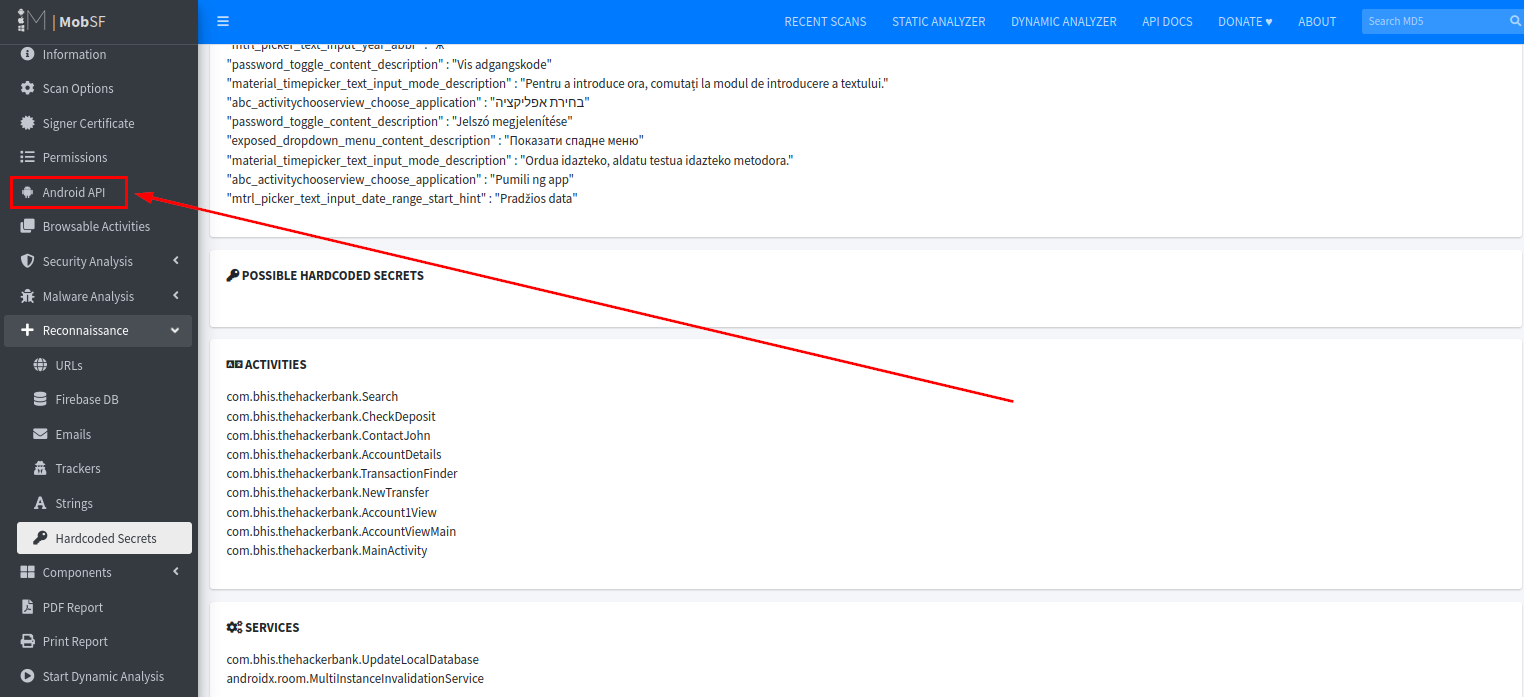
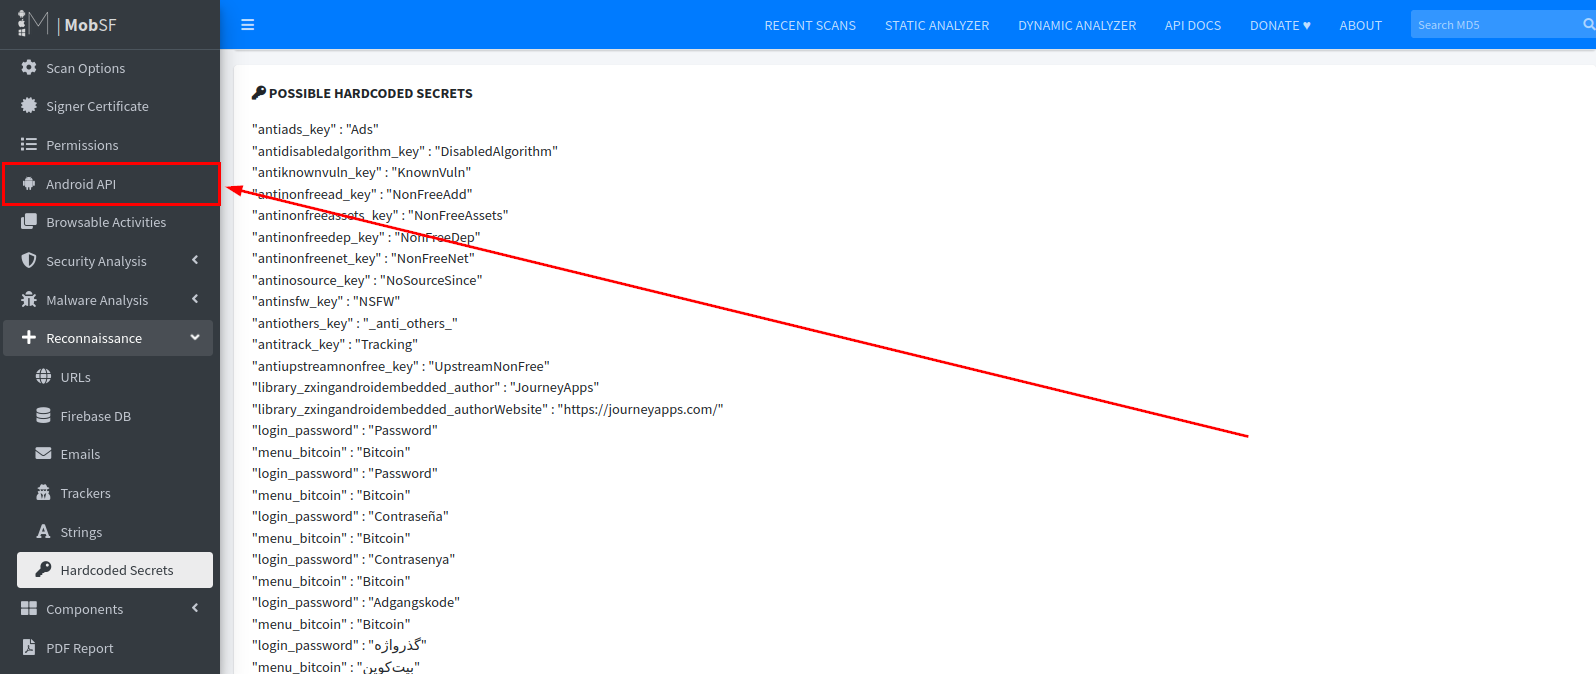
lab 3 final updates

diff --git a/Labs/LAB_03_Static_Analysis/instructions.md b/Labs/LAB_03_Static_Analysis/instructions.md
@@ -25,9 +25,9 @@ Please select an apk file in your home directory.
 
 ![](images/openapk.png)
 
-It may take a while for the file to finish Analyzing.
+It may take a while for the file to finish analyzing.
 
-Once the scan finishes, you should see the Static Report of the scan:
+Once the scan finishes, you should see the `Static Report` of the scan:
 
 ![](images/scanfinished.png)
 
@@ -80,8 +80,7 @@ MobSF extracts potentially sensitive values from this file and displays them in 
 
 You should verify that the information displayed in this section is actually sensitive before reporting it.
 
-<!--![](images/secrets.png)-->
-<img width="485" alt="Screenshot 2023-12-30 at 12 05 39 PM" src="https://github.com/deruke/AndroidLabs/assets/22796374/057e6fa8-ae56-4e12-9b2d-662ecb0a7f12">
+![](images/hardcodedsecrets.png)
 
 ## API
 
@@ -101,17 +100,17 @@ Use the navigation menu to click on `Browsable Activities`
 
 MobSF extracts a list of activities that can be triggered by a web browser to display data referenced by a link. These are worth paying attention to, since they can sometimes be leveraged by an attacker to perform web based or internet based attacks.
 
-<!--![](images/browsableactivities.png)-->
-
-<img width="1429" alt="Screenshot 2023-12-30 at 12 07 48 PM" src="https://github.com/deruke/AndroidLabs/assets/22796374/3e9bc03d-5a9d-4011-8370-c3bbaa14e926">
+![](images/browsableactivities.png)
 
 ## Certificate Analysis
 
-<!--![](images/certs.png)-->
+Use the navigation menu to click on `Signer Certificate`
 
-<img width="1424" alt="Screenshot 2023-12-30 at 12 09 00 PM" src="https://github.com/deruke/AndroidLabs/assets/22796374/a915b191-061f-4a17-87ba-40236a244dab">
+![](images/gotosignercertificate.png)
 
 The certificate analysis section will report any known vulnerabilities in the signing schemes of the application. Make sure to validate these before reporting them. When seen fit, report the Android versions affected, and maybe even the overall market share of the those affected versions.
+
+![](images/signercertificate.png)
 
 ***                                                                 
 
